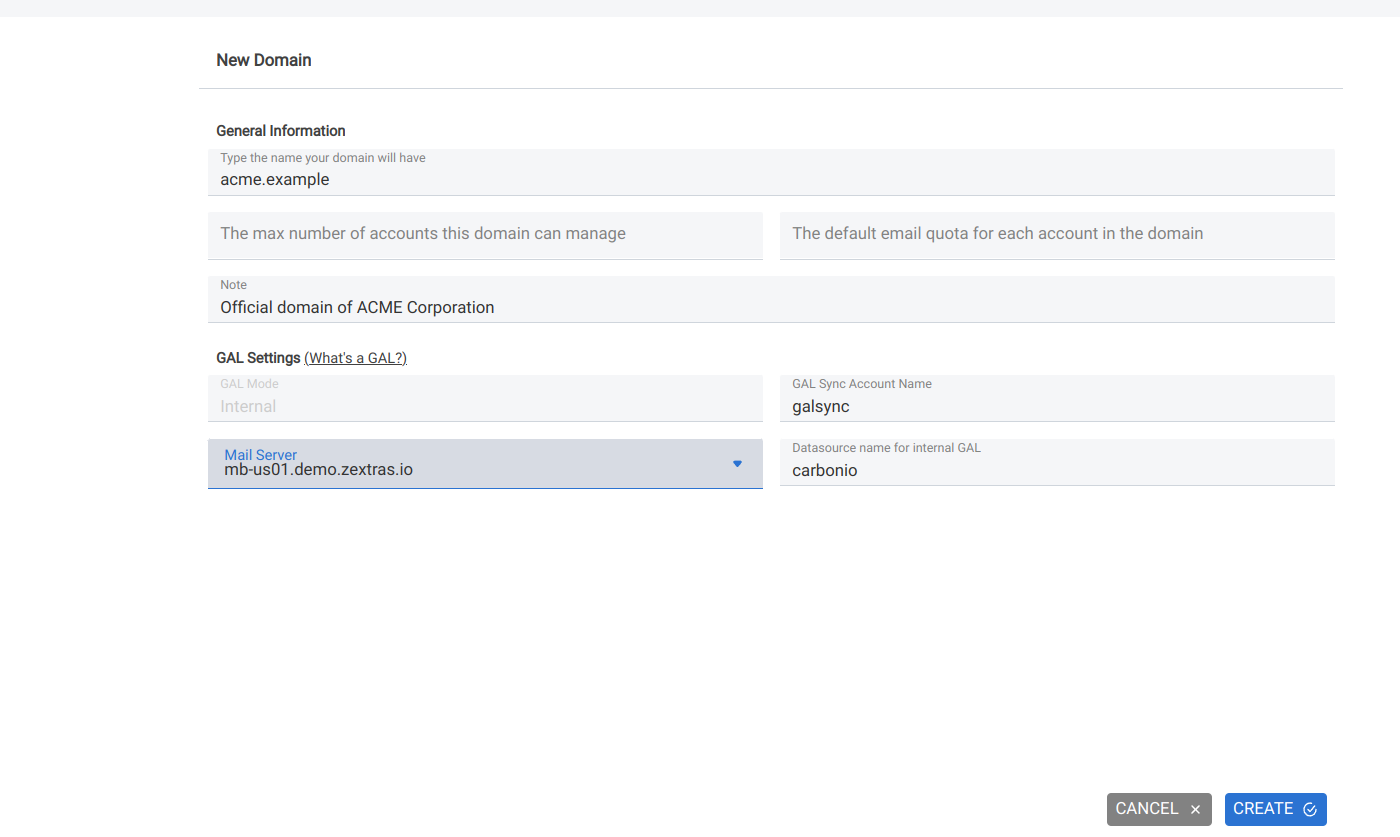
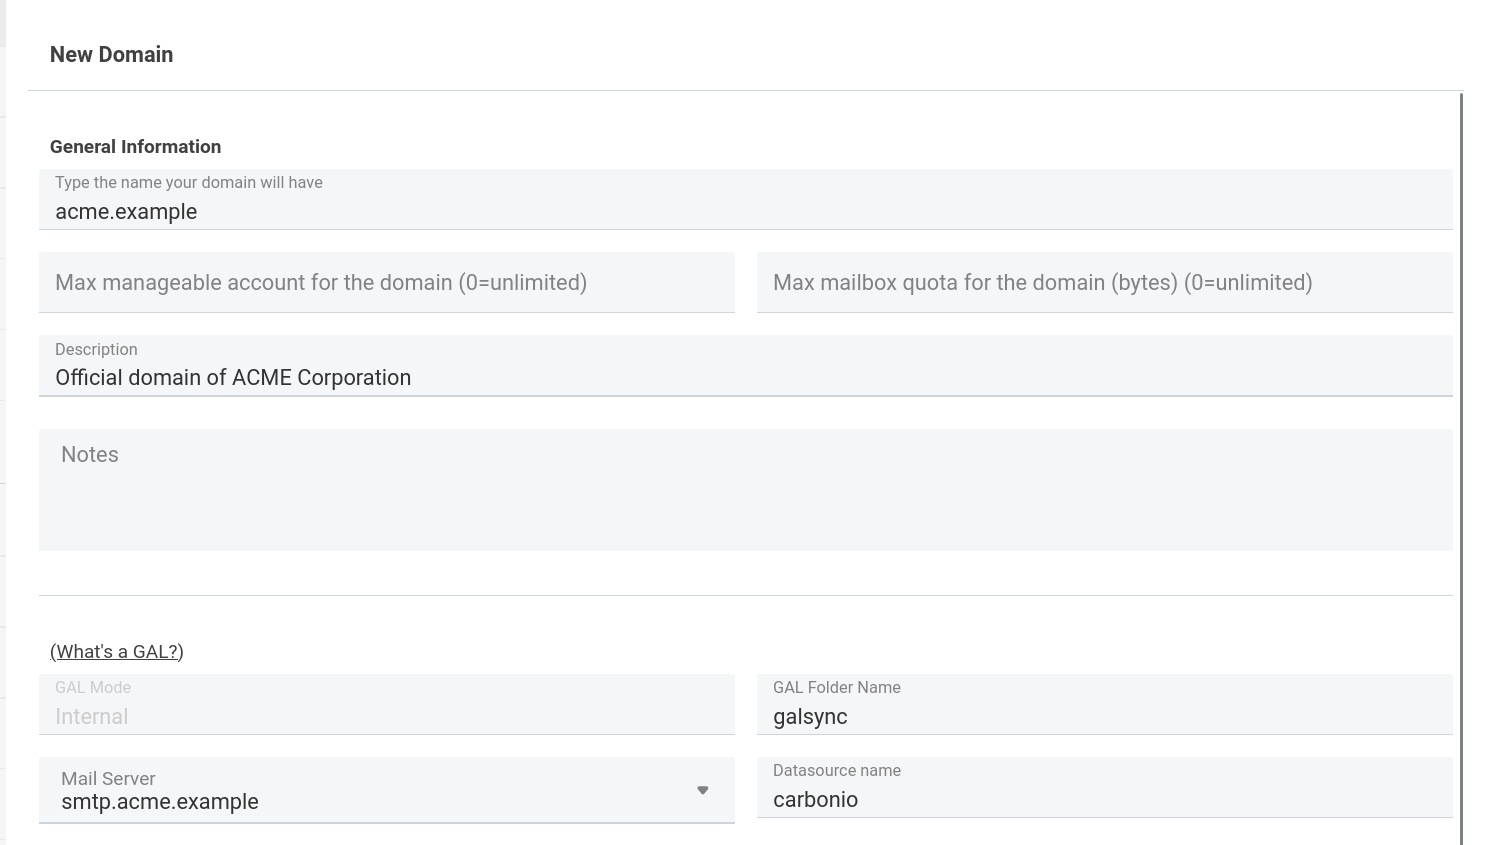
[ZTD-699] Update New Domain creation

diff --git a/source/_includes/_adminpanel/_domains/newdomain.rst b/source/_includes/_adminpanel/_domains/newdomain.rst
@@ -3,11 +3,10 @@ To create a new domain, fill in the form that opens upon clicking the
 
 .. card:: Options for Domain ``acme.example``
 
-   Two types of options are available during the creation of a new
-   domain:
+   Multiple types of options are available during the creation of a new
+   domain, grouped in several sections:
 
-   * General information
-
+   General information
      The only mandatory data to supply it the domain name, which is its
      FQDN. All other data are optional and can be set at a later point.
 
@@ -16,19 +15,59 @@ To create a new domain, fill in the form that opens upon clicking the
      the domain and the e-mail quota. Also a description can be
      added.
 
-   * GAL settings
-
+   GAL settings
      Except for the :abbr:`GAL (Global Address List)` mode, currently
      only **Internal**, it is possible to define the account used to
      synchronise GAL information, the mail server used, which must be
      on the same domain (or in a compatible one, i.e., in a valid
      alias URL, see section :ref:`ap-vhost` below).
 
-   The image below shows how a sample domain is created.
+   These two groups of options can be seen in
+   :numref:`fig_ap-new-domain-top`.
 
-   .. image:: /img/adminpanel/new-domain.png
-      :scale: 50
-      :align: center
+   COS
+     The default Class of Service that will be applied to new accounts
+     in the domain.
+
+   Delegated Administration
+     Allow users to become Administrators of the Domain.
+
+   Domain System Notification
+     Provide two e-mail addresses: the *Notification Sender* will
+     appear as the sender of the e-mail while the second is the
+     address to which the e-mail will be delivered.
+
+     .. hint:: The *Notification Sender* can be also a non-existent
+        but meaningful address, for example, mailbox-hq@example.com,
+        to allow for filtering on the destination side.
+
+   These options can be seen in :numref:`fig_ap-new-domain-bottom`.
+
+   .. grid:: 1 1 2 2
+      :gutter: 1
+
+      .. grid-item::
+         :columns: 6
+
+         .. _fig_ap-new-domain-top:
+
+         .. figure:: /img/adminpanel/new-domain.png
+            :width: 99%
+            :align: left
+            :name: fig-apnd-1
+
+            New Domain: general options and GAL
+
+      .. grid-item::
+         :columns: 6
+
+         .. _fig_ap-new-domain-bottom:
+
+         .. figure:: /img/adminpanel/new-domain-2.png
+            :width: 99%
+            :align: right
+
+            New Domain: COS and delegated Admins
 
 Further configuration option for the domain, including how to
 configure authentication and accounts in the domain, can be found in
